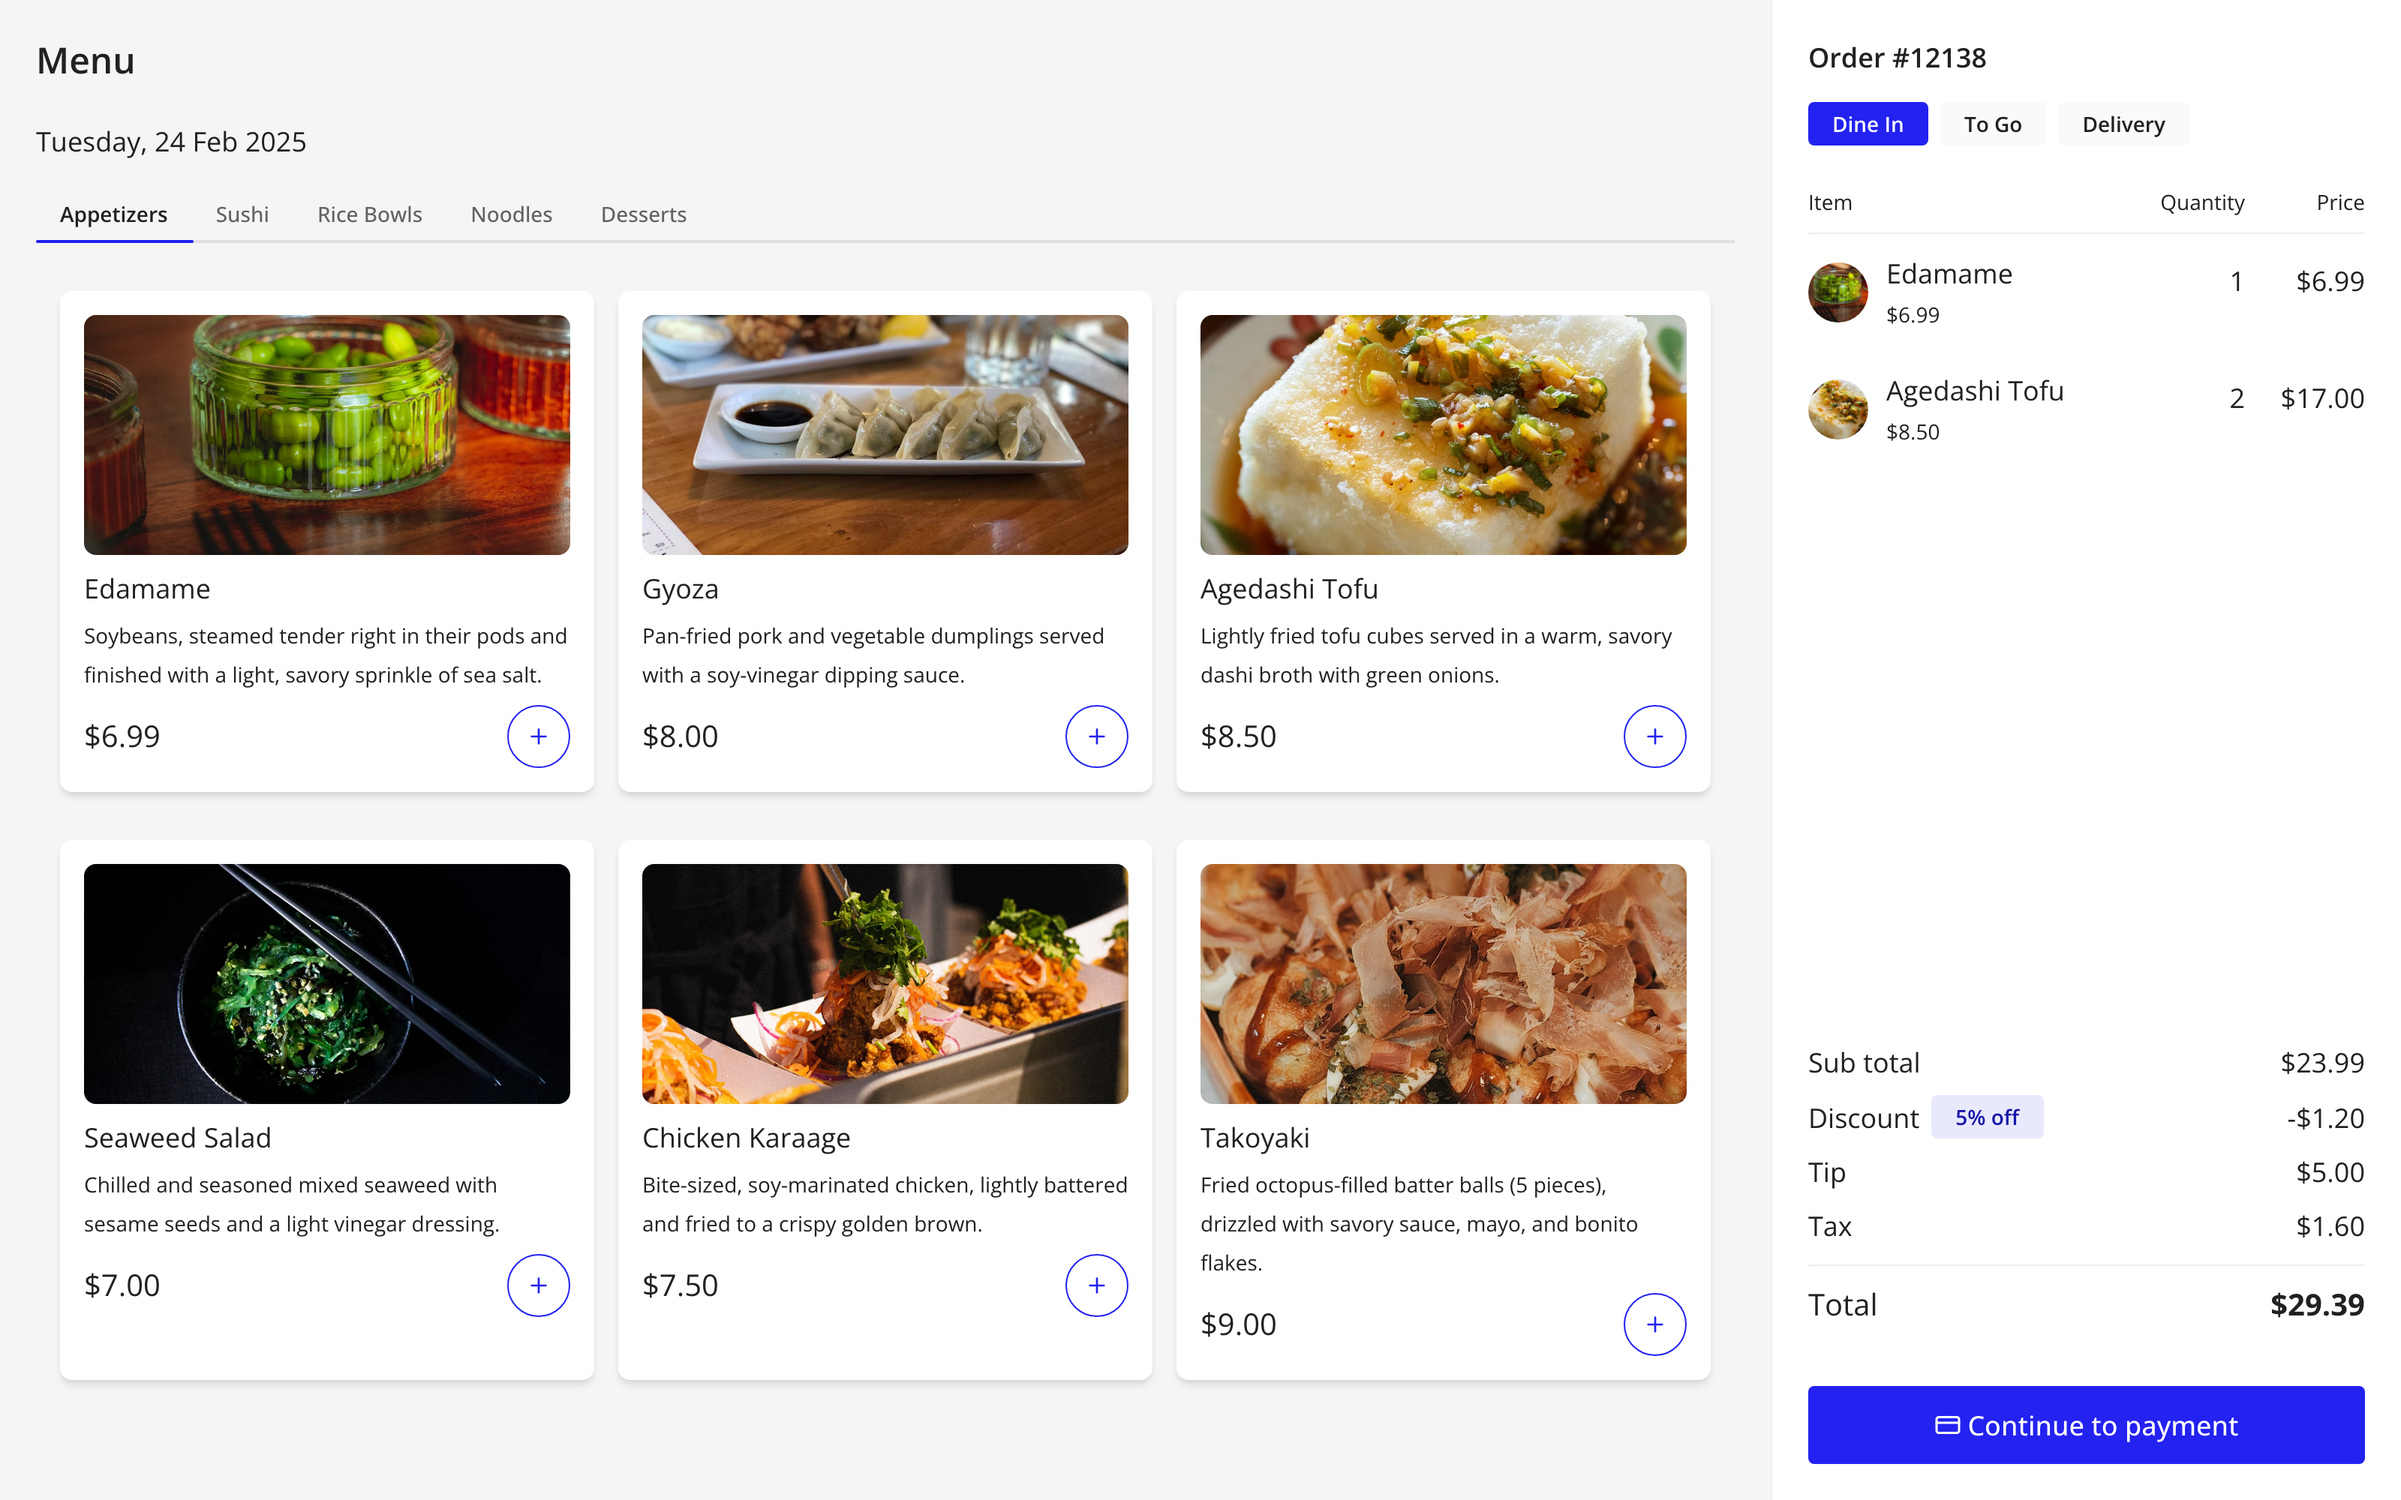
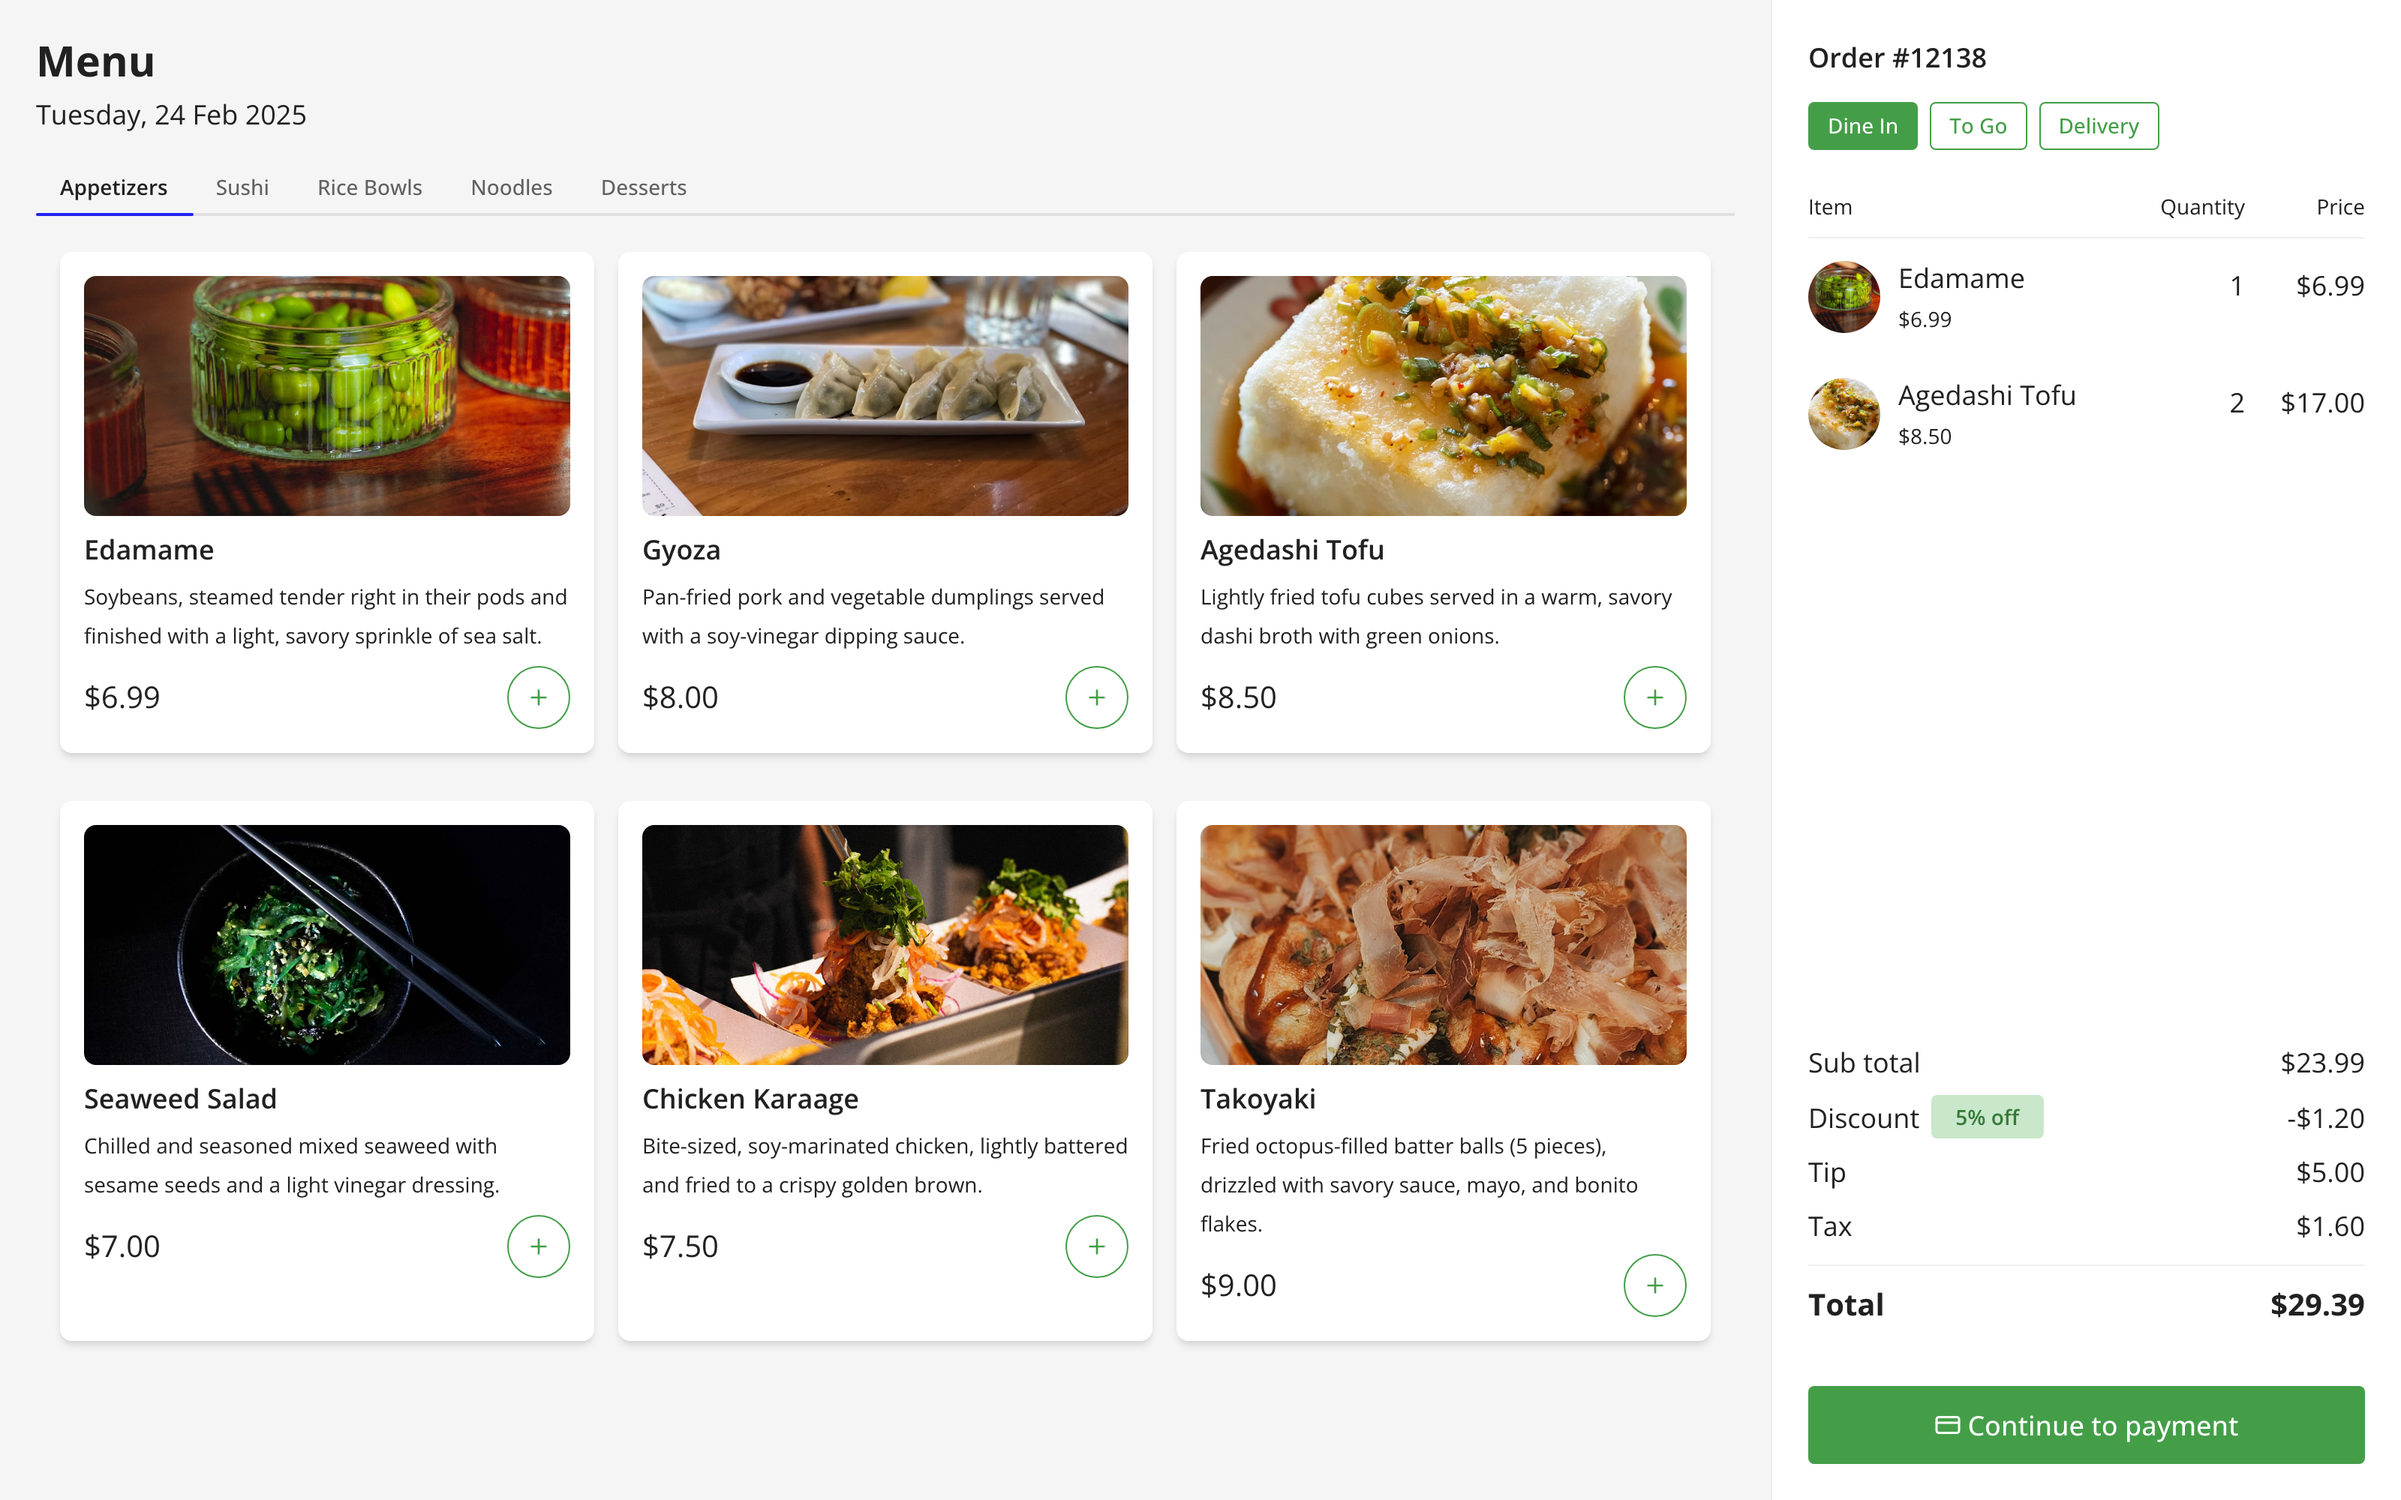
Address CR

diff --git a/src/pages/restaurant-order.tsx b/src/pages/restaurant-order.tsx
@@ -6,7 +6,9 @@ import {
   CardLayout,
   TagField,
   ButtonArrayLayout,
+  ButtonToggle,
   TabsField,
+  paletteColorMap,
 } from '@pglevy/sailwind'
 import { getMenuItems, type MenuItem } from '../db/menu-items'
 import { getOrder, type Order } from '../db/orders'
@@ -15,18 +17,18 @@ function MenuCard({ item }: { item: MenuItem }) {
   return (
     <CardLayout showShadow={true} showBorder={false} padding="STANDARD" shape="ROUNDED">
       <img src={item.image} alt={item.title} className="w-full h-40 object-cover rounded-lg mb-2" />
-      <HeadingField text={item.title} size="MEDIUM" marginBelow="EVEN_LESS" />
+      <HeadingField text={item.title} size="MEDIUM" fontWeight="SEMI_BOLD" marginBelow="EVEN_LESS" />
       <RichTextDisplayField labelPosition="COLLAPSED" value={[<TextItem key="d" text={item.description} />]} marginBelow="EVEN_LESS" />
       <div className="flex items-center justify-between mt-2">
         <RichTextDisplayField labelPosition="COLLAPSED" value={[<TextItem key="p" text={`$${item.price.toFixed(2)}`} size="MEDIUM_PLUS" />]} marginBelow="NONE" />
-        <ButtonArrayLayout buttons={[{ icon: "plus", style: "OUTLINE", className: "!rounded-full" }]} marginBelow="NONE" />
+        <ButtonArrayLayout buttons={[{ icon: "plus", style: "OUTLINE", color: "GREEN_600", className: "!rounded-full" }]} marginBelow="NONE" />
       </div>
     </CardLayout>
   )
 }
 
 function OrderPanel({ order }: { order: Order }) {
-  const [selectedTag] = useState("Dine In")
+  const [selectedTag, setSelectedTag] = useState("Dine In")
   const tags = ["Dine In", "To Go", "Delivery"]
 
   const subtotal = order.items.reduce((sum, i) => sum + i.price * i.quantity, 0)
@@ -38,15 +40,11 @@ function OrderPanel({ order }: { order: Order }) {
     <div className="flex flex-col h-full">
       <div>
         <HeadingField text={`Order #${order.orderNumber}`} size="MEDIUM" fontWeight="SEMI_BOLD" marginBelow="STANDARD" />
-        <TagField
-          tags={tags.map(t => ({
-            text: t,
-            backgroundColor: selectedTag === t ? "BLUE_500" : "GRAY_50",
-            textColor: selectedTag === t ? "#FFFFFF" : "STANDARD",
-            link: "#",
-          }))}
-          marginBelow="MORE"
-        />
+        <div className="flex gap-2 mb-2">
+          {tags.map(t => (
+            <ButtonToggle key={t} text={t} value={selectedTag === t} color="GREEN_600" style="OUTLINE" size="SMALL" onChange={() => setSelectedTag(t)} />
+          ))}
+        </div>
 
         {/* Column headers */}
         <div className="flex">
@@ -61,15 +59,15 @@ function OrderPanel({ order }: { order: Order }) {
           </div>
         </div>
 
-        <hr className="border-t border-gray-200 mt-2 mb-0" />
+        <hr className={`border-t ${paletteColorMap.GRAY_200.border} mt-2 mb-0`} />
 
         {/* Order items */}
         <div className="overflow-y-auto" style={{ maxHeight: '280px' }}>
           {order.items.map(item => (
             <div key={item.id} className="flex items-center py-3">
               <div className="flex-1 flex items-center gap-3">
-                <img src={item.image} alt={item.title} className="w-10 h-10 rounded-full object-cover" />
-                <div>
+                <img src={item.image} alt={item.title} className="w-12 h-12 rounded-full object-cover" />
+                <div className="leading-tight">
                   <HeadingField text={item.title} size="MEDIUM" marginBelow="NONE" />
                   <RichTextDisplayField labelPosition="COLLAPSED" value={[<TextItem key="p" text={`$${item.price.toFixed(2)}`} />]} marginBelow="NONE" />
                 </div>
@@ -95,7 +93,7 @@ function OrderPanel({ order }: { order: Order }) {
           <div className="flex justify-between items-center">
             <div className="flex items-center gap-2">
               <RichTextDisplayField labelPosition="COLLAPSED" value={[<TextItem key="l" text="Discount" size="MEDIUM" />]} marginBelow="NONE" />
-              <TagField tags={[{ text: "5% off", backgroundColor: "ACCENT" }]} marginBelow="NONE" />
+              <TagField tags={[{ text: "5% off", backgroundColor: "GREEN_100", textColor: "GREEN_700" }]} marginBelow="NONE" />
             </div>
             <RichTextDisplayField labelPosition="COLLAPSED" value={[<TextItem key="v" text={`-$${discountAmount.toFixed(2)}`} size="MEDIUM" />]} align="RIGHT" marginBelow="NONE" />
           </div>
@@ -109,16 +107,16 @@ function OrderPanel({ order }: { order: Order }) {
           </div>
         </div>
 
-        <hr className="border-t border-gray-200 my-3" />
+        <hr className={`border-t ${paletteColorMap.GRAY_200.border} my-3`} />
 
         <div className="flex justify-between mt-3">
-          <RichTextDisplayField labelPosition="COLLAPSED" value={[<TextItem key="l" text="Total" size="MEDIUM_PLUS" />]} />
+          <RichTextDisplayField labelPosition="COLLAPSED" value={[<TextItem key="l" text="Total" size="MEDIUM_PLUS" style="STRONG" />]} />
           <RichTextDisplayField labelPosition="COLLAPSED" value={[<TextItem key="v" text={`$${total.toFixed(2)}`} size="MEDIUM_PLUS" style="STRONG" />]} align="RIGHT" />
         </div>
 
         <div className="mt-6">
           <ButtonArrayLayout
-            buttons={[{ label: "Continue to payment", width: "FILL", icon: "credit-card", style: "SOLID", size: "MEDIUM" }]}
+            buttons={[{ label: "Continue to payment", width: "FILL", icon: "credit-card", style: "SOLID", size: "MEDIUM", color: "GREEN_600" }]}
             marginBelow="NONE"
             align="CENTER"
           />
@@ -142,8 +140,8 @@ export default function RestaurantOrder() {
   return (
     <div className="flex min-h-screen">
       {/* Left pane - Menu */}
-      <div className="flex-1 bg-gray-100 p-6">
-        <HeadingField text="Menu" size="LARGE" fontWeight="SEMI_BOLD" />
+      <div className={`flex-1 ${paletteColorMap.GRAY_100.bg} p-6`}>
+        <HeadingField text="Menu" size="LARGE_PLUS" fontWeight="BOLD" marginBelow="EVEN_LESS" />
         <RichTextDisplayField labelPosition="COLLAPSED" value={[<TextItem key="d" text="Tuesday, 24 Feb 2025" size="MEDIUM" />]} />
         <TabsField
           className="[&_button]:bg-transparent"
@@ -151,7 +149,7 @@ export default function RestaurantOrder() {
             value: cat,
             label: cat,
             content: (
-              <div className="grid grid-cols-3 gap-4 mt-4">
+              <div className="grid grid-cols-3 gap-4 mt-2">
                 {(cat === "Appetizers" ? menuItems : []).map(item => (
                   <MenuCard key={item.id} item={item} />
                 ))}
@@ -163,7 +161,7 @@ export default function RestaurantOrder() {
       </div>
 
       {/* Right pane - Order */}
-      <div className="w-[420px] bg-white p-6 border-l border-gray-200 flex flex-col">
+      <div className={`w-[420px] bg-white p-6 border-l ${paletteColorMap.GRAY_200.border} flex flex-col`}>
         {order && <OrderPanel order={order} />}
       </div>
     </div>

diff --git a/.kiro/steering/sail-props.md b/.kiro/steering/sail-props.md
@@ -51,6 +51,24 @@ Most components accept these optional props. They are not repeated in each table
 | `buttons` | `ButtonWidgetProps[]` | ✓ | Array of button configurations |
 | `align` | `SAILAlign` |  | Determines alignment of buttons |
 
+### ButtonToggle
+
+| Prop | Type | Req | Description |
+|------|------|:---:|-------------|
+| `label` | `string` |  | Text to display as the field label |
+| `text` | `string` |  | Text to display on the toggle button |
+| `required` | `boolean` |  | Determines if a value is required to submit the form |
+| `disabled` | `boolean` |  | Determines if the field should display as grayed out |
+| `value` | `boolean` |  | Current pressed state (true = pressed, false = unpressed) |
+| `validations` | `string[]` |  | Validation errors to display below the field |
+| `saveInto` | `(value: boolean) => void` |  | Callback when the user toggles the button |
+| `onChange` | `(value: boolean) => void` |  | Callback when the user toggles the button (React-style alias for saveInto) |
+| `size` | `SAILSize` |  | Size of the toggle button |
+| `color` | `ACCENT / POSITIVE / NEGATIVE / SECONDARY / STANDARD / SAILColorInput` |  | Color when toggle is pressed (hex or semantic) |
+| `style` | `SOLID / OUTLINE / GHOST` |  | Determines the button's appearance |
+| `icon` | `string` |  | Icon to display in the button |
+| `iconPosition` | `START / END` |  | Position of icon relative to text |
+
 ### ButtonWidget
 
 | Prop | Type | Req | Description |
@@ -478,21 +496,6 @@ Most components accept these optional props. They are not repeated in each table
 | `link` | `any` |  | Link to apply to the stamp |
 | `shape` | `SAILShape` |  | Determines the stamp shape |
 
-### SwitchField
-
-| Prop | Type | Req | Description |
-|------|------|:---:|-------------|
-| `label` | `string` |  | Text to display as the field label |
-| `required` | `boolean` |  | Determines if a value is required to submit the form |
-| `disabled` | `boolean` |  | Determines if the field should display as grayed out |
-| `value` | `boolean` |  | Current checked state (true = on, false = off) |
-| `validations` | `string[]` |  | Validation errors to display below the field |
-| `saveInto` | `(value: boolean) => void` |  | Callback when the user toggles the switch |
-| `onChange` | `(value: boolean) => void` |  | Callback when the user toggles the switch (React-style alias for saveInto) |
-| `size` | `SAILSize` |  | Size of the switch and its label |
-| `color` | `ACCENT / POSITIVE / NEGATIVE / SECONDARY / STANDARD / SAILColorInput` |  | Color when switch is on (hex or semantic) |
-| `switchLabelPosition` | `LEFT / RIGHT` |  | Position of the inline label relative to the switch control: LEFT or RIGHT |
-
 ### TabsField
 
 | Prop | Type | Req | Description |
@@ -562,19 +565,14 @@ Most components accept these optional props. They are not repeated in each table
 
 | Prop | Type | Req | Description |
 |------|------|:---:|-------------|
-| `label` | `string` |  | Text to display as the field label |
-| `text` | `string` |  | Text to display on the toggle button |
+| `choiceLabel` | `string` |  | Text to display as the label next to the toggle |
 | `required` | `boolean` |  | Determines if a value is required to submit the form |
 | `disabled` | `boolean` |  | Determines if the field should display as grayed out |
-| `value` | `boolean` |  | Current pressed state (true = pressed, false = unpressed) |
+| `value` | `boolean` |  | Current checked state (true = on, false = off) |
 | `validations` | `string[]` |  | Validation errors to display below the field |
-| `saveInto` | `(value: boolean) => void` |  | Callback when the user toggles the button |
-| `onChange` | `(value: boolean) => void` |  | Callback when the user toggles the button (React-style alias for saveInto) |
-| `size` | `SAILSize` |  | Size of the toggle button |
-| `color` | `ACCENT / POSITIVE / NEGATIVE / SECONDARY / STANDARD / SAILColorInput` |  | Color when toggle is pressed (hex or semantic) |
-| `style` | `SOLID / OUTLINE / GHOST` |  | Determines the button's appearance |
-| `icon` | `string` |  | Icon to display in the button |
-| `iconPosition` | `START / END` |  | Position of icon relative to text |
+| `saveInto` | `(value: boolean) => void` |  | Callback when the user toggles the switch |
+| `onChange` | `(value: boolean) => void` |  | Callback when the user toggles the switch (React-style alias for saveInto) |
+| `choicePosition` | `START / END` |  | Determines whether the toggle appears on the left or right of the choice label. Valid values: "START" (default), "END" |
 
 ### UserImage
 

diff --git a/.kiro/steering/sail-components.md b/.kiro/steering/sail-components.md
@@ -15,13 +15,13 @@ import { ComponentName } from '@pglevy/sailwind'
 
 **Display:** `HeadingField`, `RichTextDisplayField`, `TextItem`, `Icon`, `ImageField`, `MessageBanner`, `TagField`, `TagItem`, `StampField`, `ProgressBar`, `MilestoneField`
 
-**Input:** `TextField`, `DropdownField`, `MultipleDropdownField`, `CheckboxField`, `RadioButtonField`, `SwitchField`, `ToggleField`, `SliderField`
+**Input:** `TextField`, `DropdownField`, `MultipleDropdownField`, `CheckboxField`, `RadioButtonField`, `ToggleField`, `SliderField`
 
 **Actions:** `ButtonWidget`, `ButtonArrayLayout`, `DialogField`, `TabsField`
 
 **Utility:** `FieldLabel`, `FieldWrapper`
 
-**Other:** `ChatAssistantMessage`, `ChatConfirmation`, `ChatFeedback`, `ChatInput`, `ChatPanel`, `ChatUserMessage`, `GridColumn`, `ParagraphField`, `ReadOnlyGrid`, `RecordView`, `SiteNav`
+**Other:** `ButtonToggle`, `ChatAssistantMessage`, `ChatConfirmation`, `ChatFeedback`, `ChatInput`, `ChatPanel`, `ChatUserMessage`, `GridColumn`, `ParagraphField`, `ReadOnlyGrid`, `RecordView`, `SiteNav`
 
 **Total: 40 components**
 
